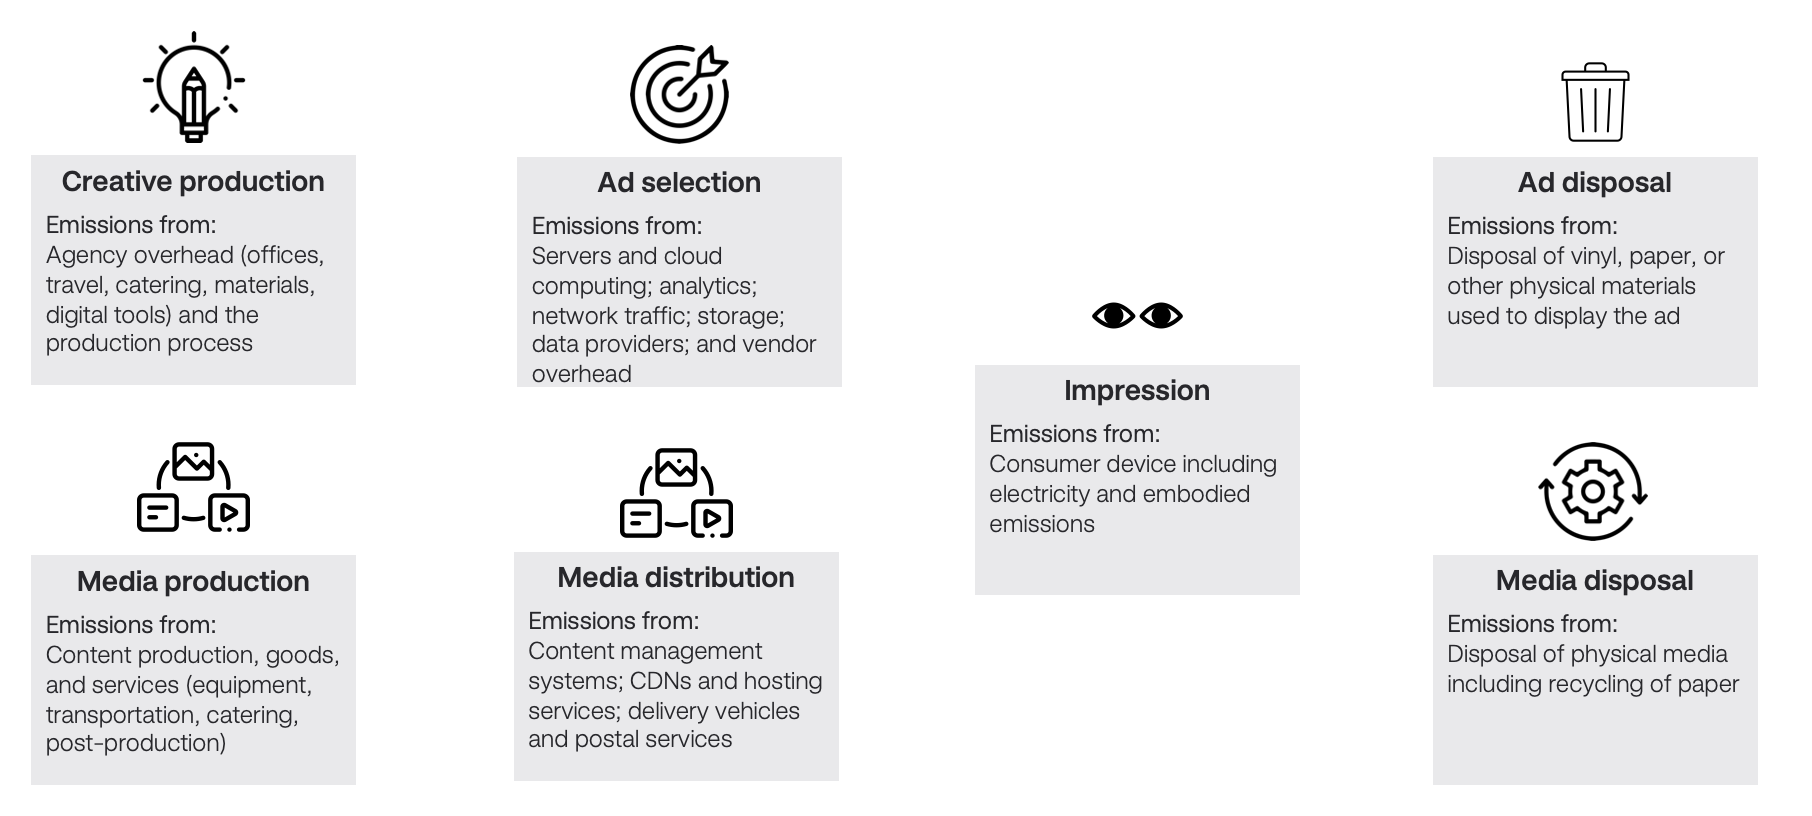
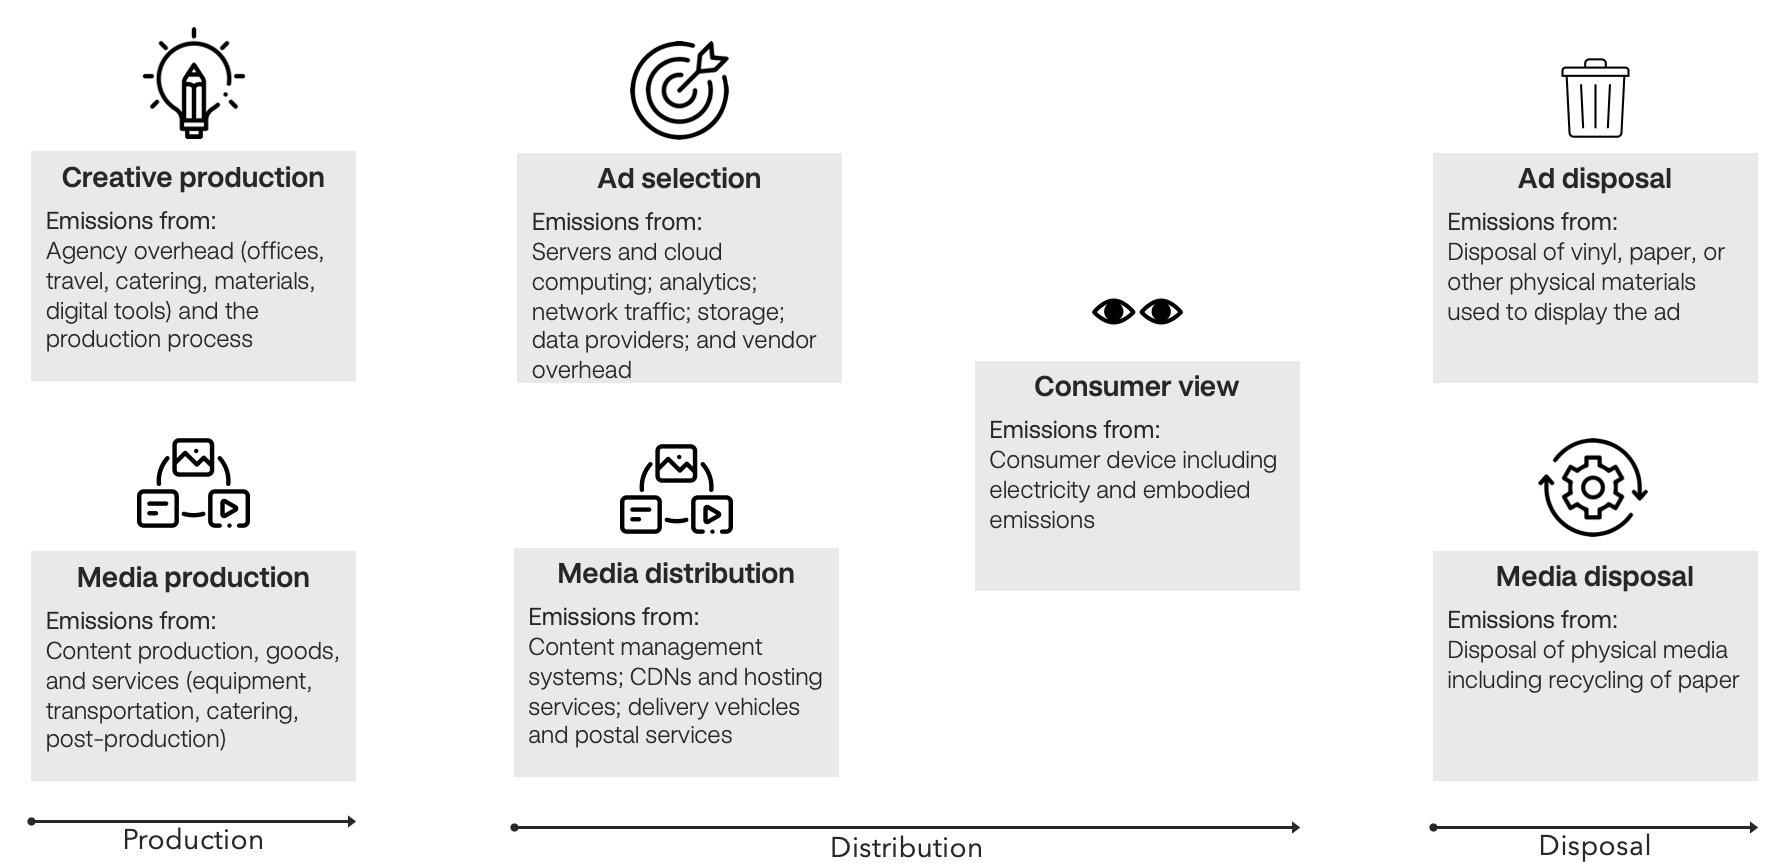
clarifications per feedback

diff --git a/docs/creative.md b/docs/creative.md
@@ -35,7 +35,7 @@ For each vendor that participates in delivering and tracking the creative, we ne
 | Parameter    | Values                      | Required | Comments                                                                    |
 | ------------ | --------------------------- | -------- | --------------------------------------------------------------------------- |
 | Payload Size | bytes                       | yes      | Bytes transferred to fully display the creative                             |
-| Duration     | seconds                     | yes      | Used for consumer device calculation. For banners/native this should be 1.  |
+| Duration     | seconds (float)             | yes      | Used for consumer device calculation. For static creative this should be 1. |
 | Impressions  | integer                     | yes      |                                                                             |
 | Network Type | fixed, mobile               | yes      |                                                                             |
 | Device Type  | mobile, pc, tablet, tv, ooh | yes      |                                                                             |
@@ -50,39 +50,39 @@ For each vendor that participates in delivering and tracking the creative, we ne
 
 ## Use Case: Banner Ad
 
-| Parameter    | Values        | Comments                                               |
-| ------------ | ------------- | ------------------------------------------------------ |
-| Payload Size | 24882         | The size of the creative in bytes                      |
-| Duration     | 1             | Recommended value for banners                          |
-| Impressions  | 831211        |                                                        |
-| Network Type | mobile        |                                                        |
-| Device Type  | mobile        |                                                        |
+| Parameter    | Values | Comments                             |
+| ------------ | ------ | ------------------------------------ |
+| Payload Size | 24882  | The size of the creative in bytes    |
+| Duration     | 1      | Recommended value for static banners |
+| Impressions  | 831211 |                                      |
+| Network Type | mobile |                                      |
+| Device Type  | mobile |                                      |
 
 This will output:
 | Parameter | Value | Comments |
 | -- | -- | -- |
 | Device Energy | 0.18 kWh | 1 x 831211 x 0.77 / 3600 / 1000 |
 | Device Embodied Emissions | 4322.3 gCO2e | 1 x 831211 x 0.0052|
-| Data Transfer Energy | 2.70 kWh | 0.14 x 24882 / 1024 / 1024 / 1024 * 831211 |
+| Data Transfer Energy | 2.70 kWh | 0.14 x 24882 / 1024 / 1024 / 1024 \* 831211 |
 
 At 390 g/kWh, this creative execution would generate 5.4 kg of CO2e.
 
 ## Use Case: Video ad on CTV
 
-| Parameter    | Value    | Comments        |
-| ------------ | -------- | --------------- |
-| Payload Size | 1875000  | 500kbit/s x 30s |
-| Duration     | 30       |                 |
-| Impressions  | 831211   |                 |
-| Network Type | fixed    |                 |
-| Device Type  | tv       |                 |
+| Parameter    | Value   | Comments        |
+| ------------ | ------- | --------------- |
+| Payload Size | 1875000 | 500kbit/s x 30s |
+| Duration     | 30      |                 |
+| Impressions  | 831211  |                 |
+| Network Type | fixed   |                 |
+| Device Type  | tv      |                 |
 
 This will output:
 
-| Parameter | Value | Comments |
-| -- | -- | -- |
-| Device Energy | 605.4 kWh | 30 x 831211 x 87.4 / 3600 / 1000 |
-| Device Embodied Emissions | 523662.9 gCO2e | 30 x 831211 x 0.021 |
-| Data Transfer Energy | 43.5 kWh | 0.03 x 1875000 / 1024 / 1024 / 1024 * 831211 |
+| Parameter                 | Value          | Comments                                      |
+| ------------------------- | -------------- | --------------------------------------------- |
+| Device Energy             | 605.4 kWh      | 30 x 831211 x 87.4 / 3600 / 1000              |
+| Device Embodied Emissions | 523662.9 gCO2e | 30 x 831211 x 0.021                           |
+| Data Transfer Energy      | 43.5 kWh       | 0.03 x 1875000 / 1024 / 1024 / 1024 \* 831211 |
 
 At 390 g/kWh, this creative execution would generate 777 kg of CO2e.

diff --git a/docs/lifecycle.md b/docs/lifecycle.md
@@ -6,12 +6,12 @@ Life cycle assessment or LCA (also known as life cycle analysis) is a methodolog
 
 To "manufacture" an ad impression, our raw materials are media (content), creative (the ad itself), and human attention (via ears and/or eyes). Different channels will have different combinations of these ingredients. For instance, a billboard often doesn't have content, just the ad. However, a billboard will have a disposal component when the vinyl is removed or recycled.
 
-The life cycle of an ad can be broken down into two stages: production and use. The production phase includes media production and creative production. The use phase has four components:
+The life cycle of an ad can be broken down into two stages: production and distribution. The production phase includes media production and creative production. The distribution phase has four components:
 
 1. Media distribution
 1. Ad selection
 1. Consumer engagement - the impression
-1. Disposal
+1. Ad and media disposal
 
 ![Lifecycle of an ad](images/lca_ad.png)
 
@@ -75,11 +75,11 @@ The ad tech supply chain is a critical component to understand emissions from me
 
 DIMPACT is omitted as its methodology does not currently include ad selection.
 
-| Topic                                                      | SRI | GroupM |
-| ---------------------------------------------------------- | --- | ------ |
-| Includes emissions from programmatic vendors               | No  | Yes    |
-| Includes emissions from data and identity providers        | No  | No     |
-| Includes emissions from technology embedded into creatives | No  | Yes?   |
+| Topic                                                      | SRI         | GroupM      |
+| ---------------------------------------------------------- | ----------- | ----------- |
+| Includes emissions from programmatic vendors               | Yes         | Yes         |
+| Includes emissions from data and identity providers        | Unspecified | Unspecified |
+| Includes emissions from technology embedded into creatives | Unspecified | Unspecified |
 
 ### Grid allocation
 
